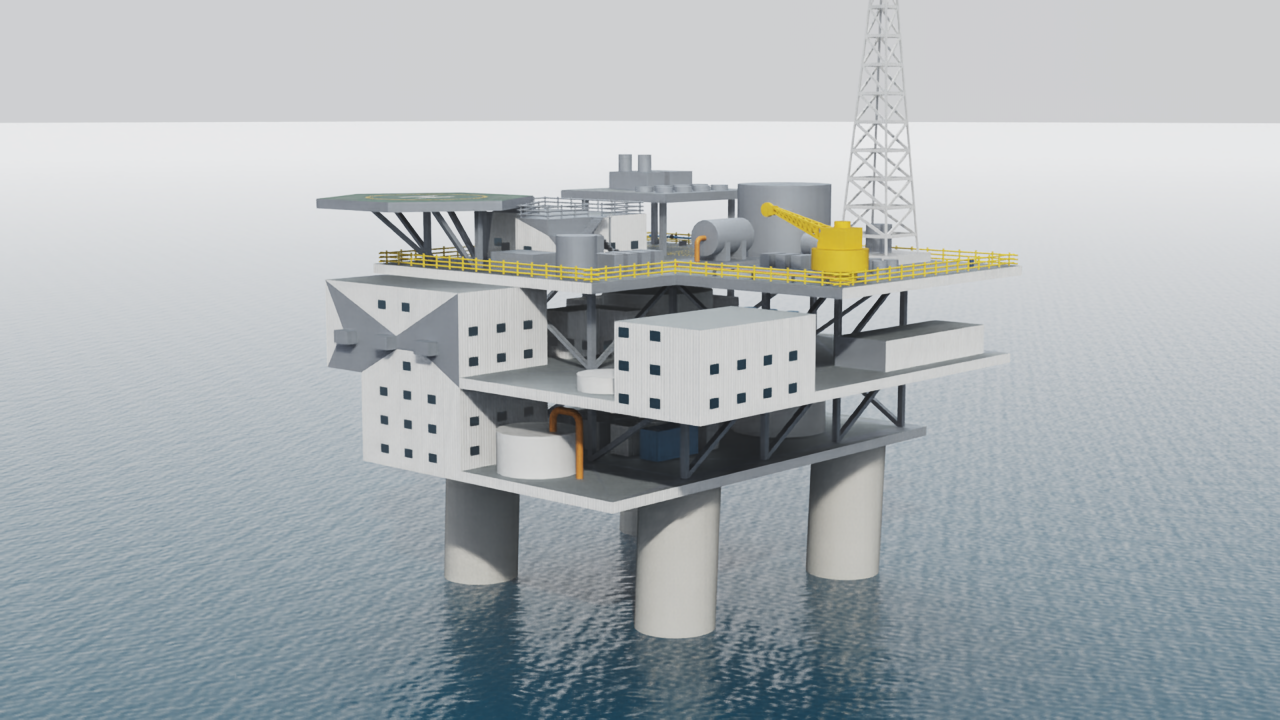
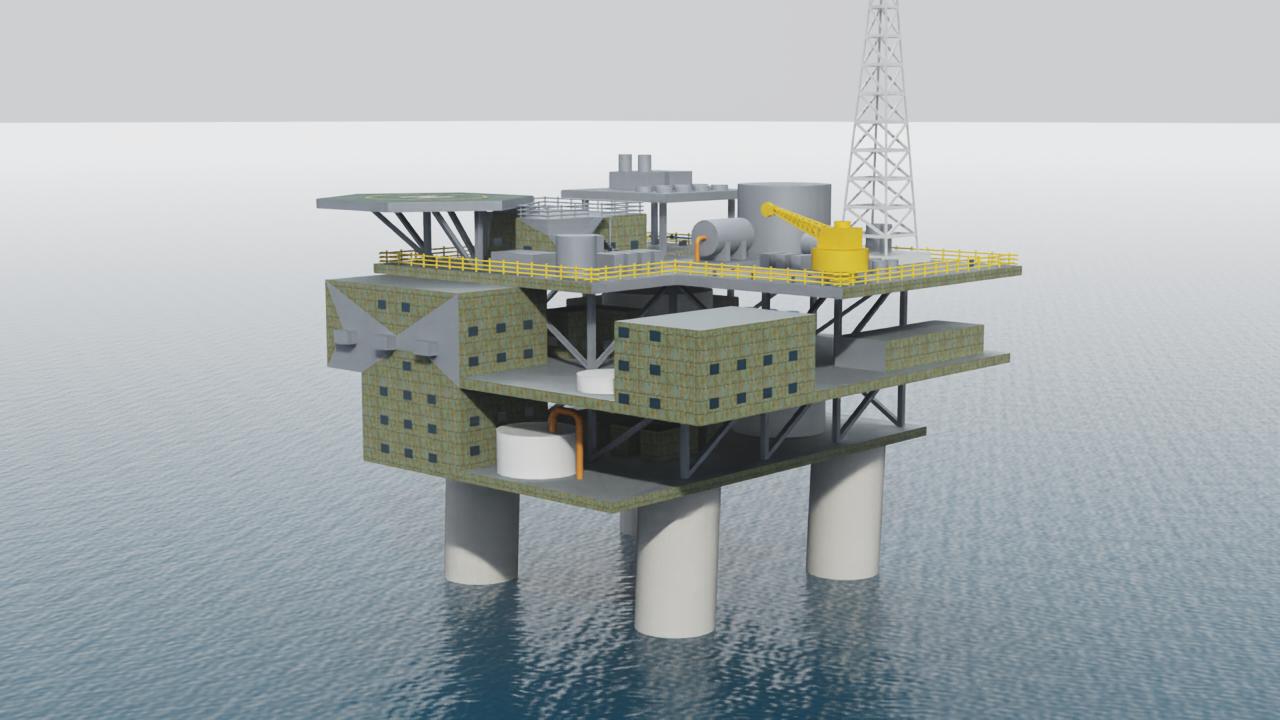
Use rusty_metal_grid on the rig's building walls

diff --git a/sim/build_full_rig.py b/sim/build_full_rig.py
@@ -62,6 +62,8 @@ PAINTS = {
     "module_grey": ((0.46, 0.49, 0.51), 0.55, 0.1, CLADDING),
 }
 TILE_METRES = {"deck": 2.5, "concrete": 6.0, "module_white": 4.0, "module_blue": 4.0, "module_grey": 4.0}
+WALL_TEXTURE = "rusty_metal_grid"
+WALL_MATERIALS = ("module_white", "module_blue", "module_grey")
 SEA_TILE_METRES = 70.0
 # Sea haze. Saved in the scene so it applies when anyone opens the rig. Distances are in metres.
 HAZE_SETTINGS = {
@@ -216,11 +218,23 @@ class Materials:
         if name not in self.cache:
             material, shader, st = self._base(name)
             color, roughness, metallic, relief = PAINTS[name]
-            shader.CreateInput("diffuseColor", Sdf.ValueTypeNames.Color3f).Set(Gf.Vec3f(*color))
-            shader.CreateInput("roughness", Sdf.ValueTypeNames.Float).Set(roughness)
             shader.CreateInput("metallic", Sdf.ValueTypeNames.Float).Set(metallic)
-            if relief:
-                self._normal_map(material, shader, st, ASSETS / "textures" / relief)
+            if name in WALL_MATERIALS:
+                folder = ASSETS / "textures" / WALL_TEXTURE
+                diffuse = self._texture(material, st, folder / "diff.jpg", "diff", "sRGB")
+                shader.CreateInput("diffuseColor", Sdf.ValueTypeNames.Color3f).ConnectToSource(
+                    diffuse.CreateOutput("rgb", Sdf.ValueTypeNames.Float3)
+                )
+                rough = self._texture(material, st, folder / "rough.jpg", "rough", "raw")
+                shader.CreateInput("roughness", Sdf.ValueTypeNames.Float).ConnectToSource(
+                    rough.CreateOutput("r", Sdf.ValueTypeNames.Float)
+                )
+                self._normal_map(material, shader, st, folder)
+            else:
+                shader.CreateInput("diffuseColor", Sdf.ValueTypeNames.Color3f).Set(Gf.Vec3f(*color))
+                shader.CreateInput("roughness", Sdf.ValueTypeNames.Float).Set(roughness)
+                if relief:
+                    self._normal_map(material, shader, st, ASSETS / "textures" / relief)
             self.cache[name] = material
         return self.cache[name]
 

diff --git a/sim/tools/texture_sheet.py b/sim/tools/texture_sheet.py
@@ -22,7 +22,8 @@ GAP = 14
 COLUMNS = 4
 USED_BY = {
     "metal_plate": "Full rig: floor relief",
-    "box_profile_metal_sheet": "Full rig: wall relief",
+    "box_profile_metal_sheet": "Not used yet",
+    "rusty_metal_grid": "Full rig: building walls",
     "concrete_floor_damaged_01": "Full rig: leg relief",
     "metal_grate_rusty": "Deck scene",
     "rusty_metal_02": "Deck scene",
